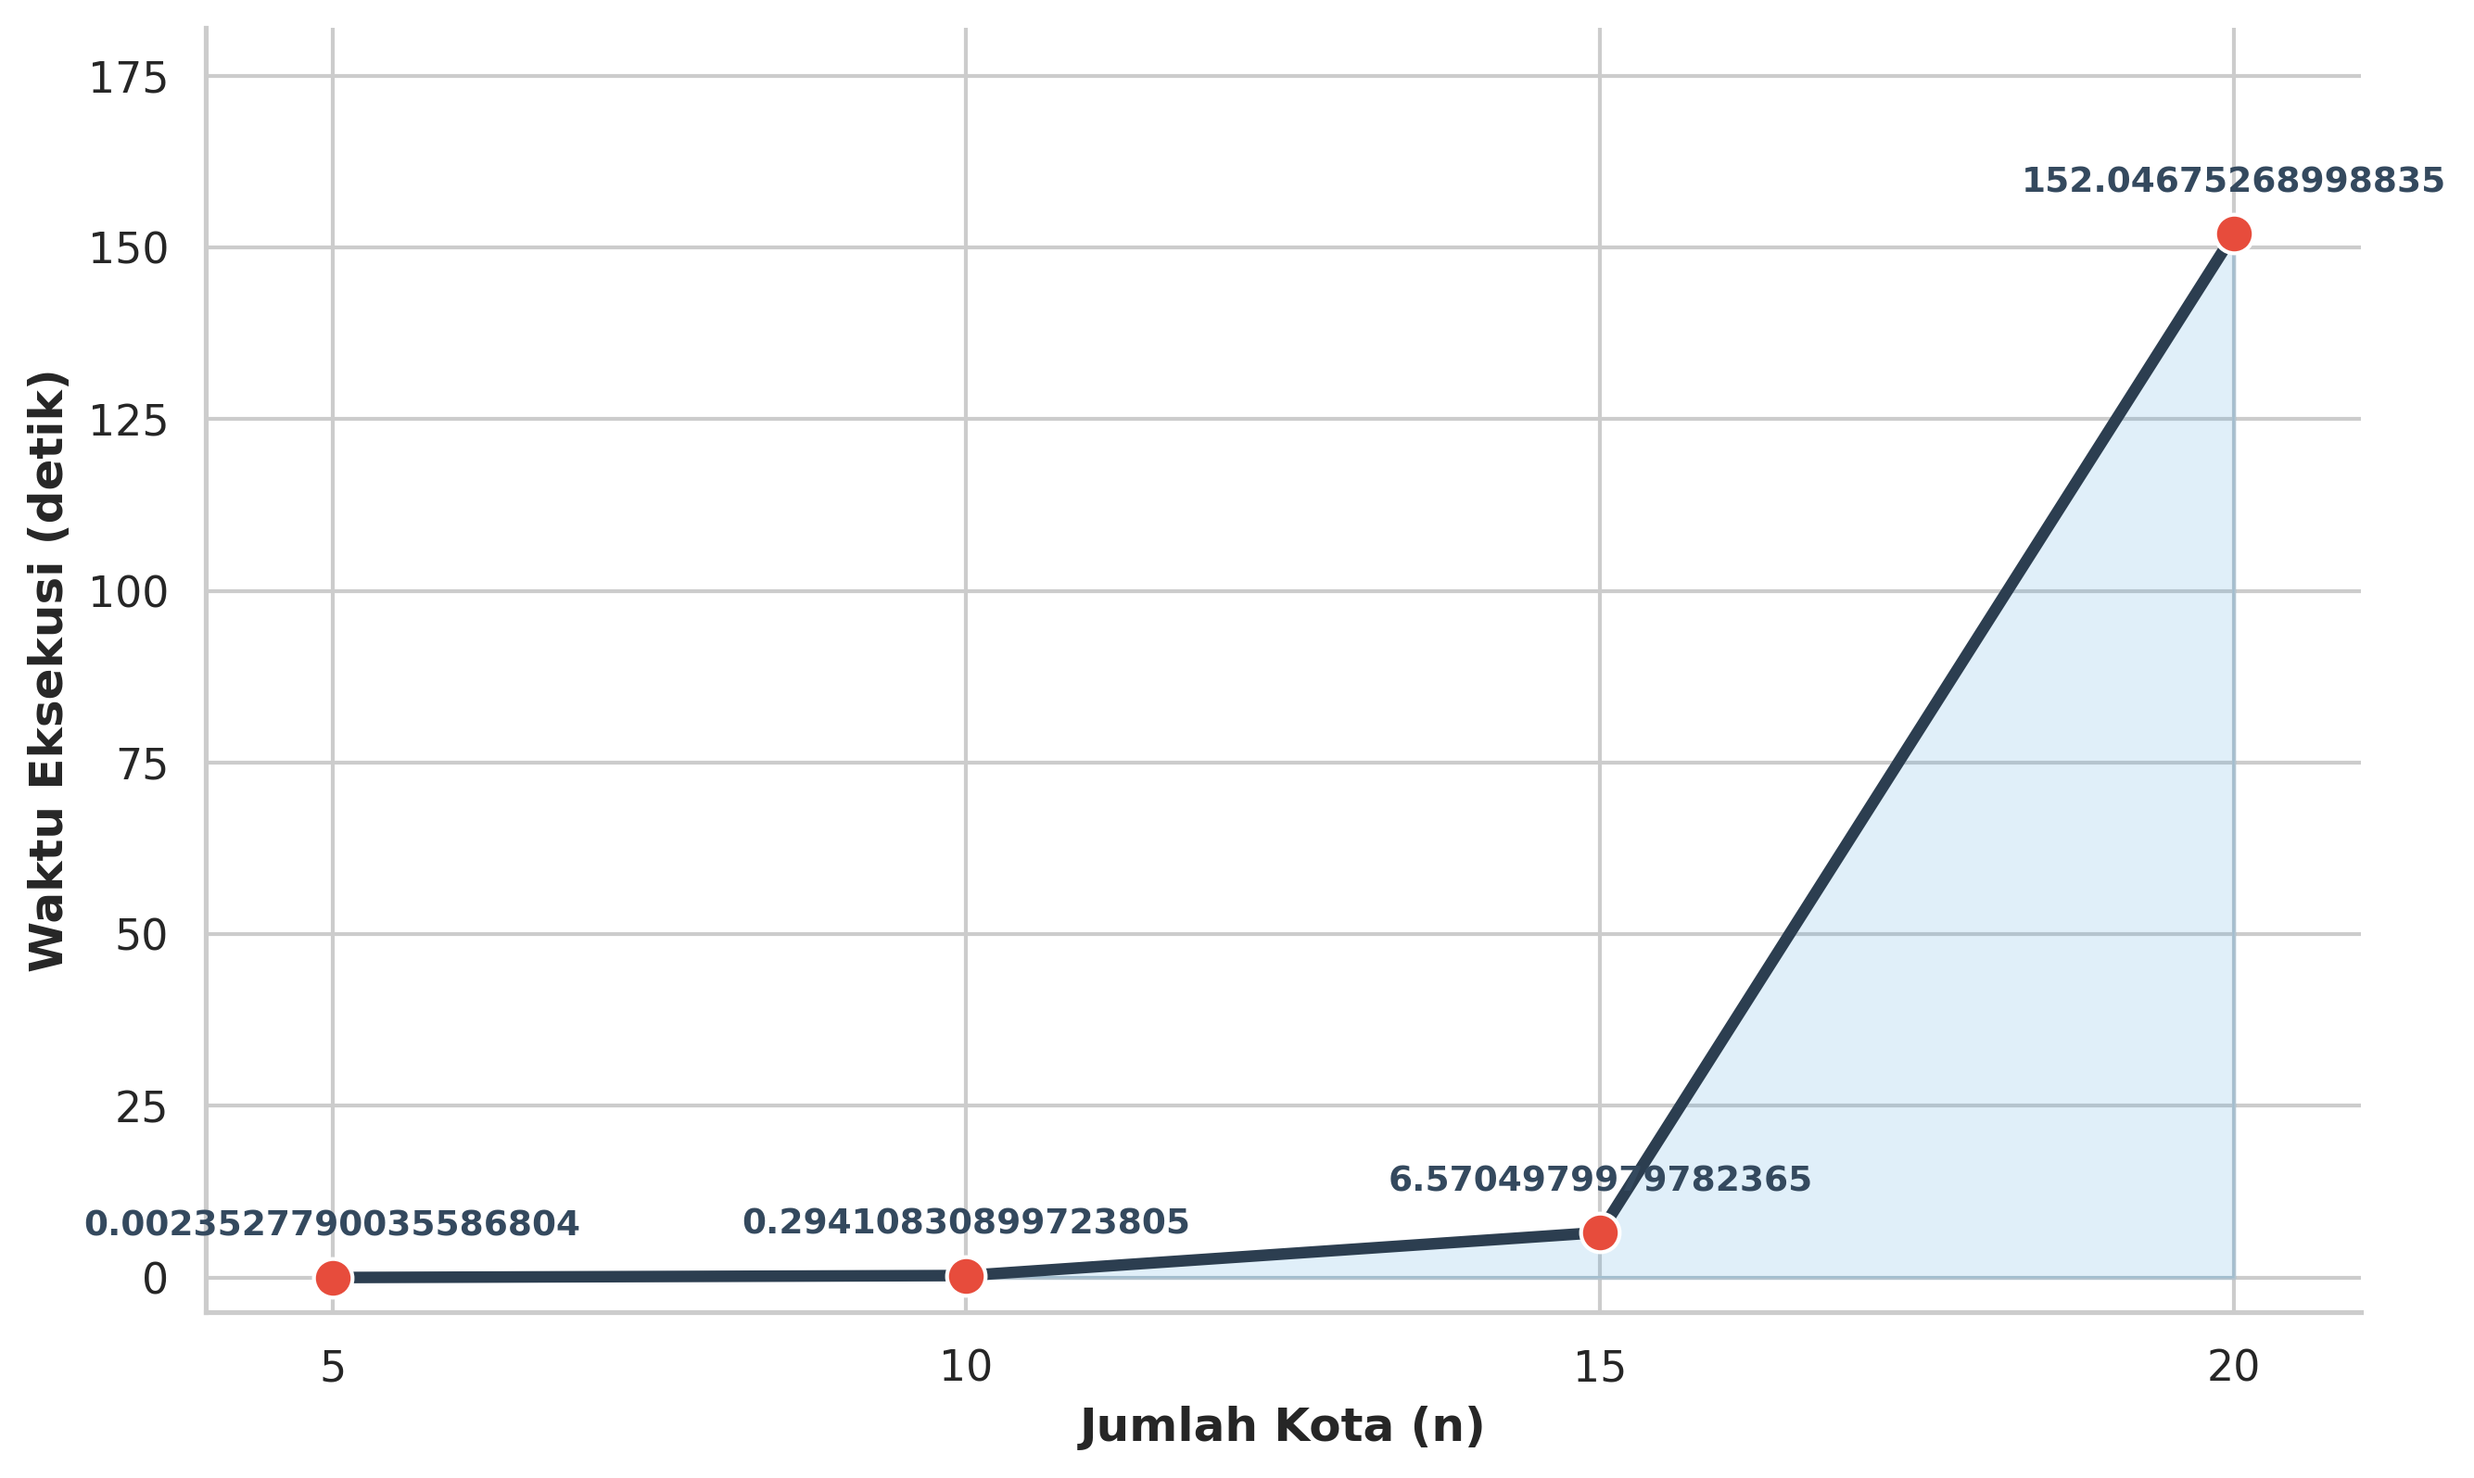
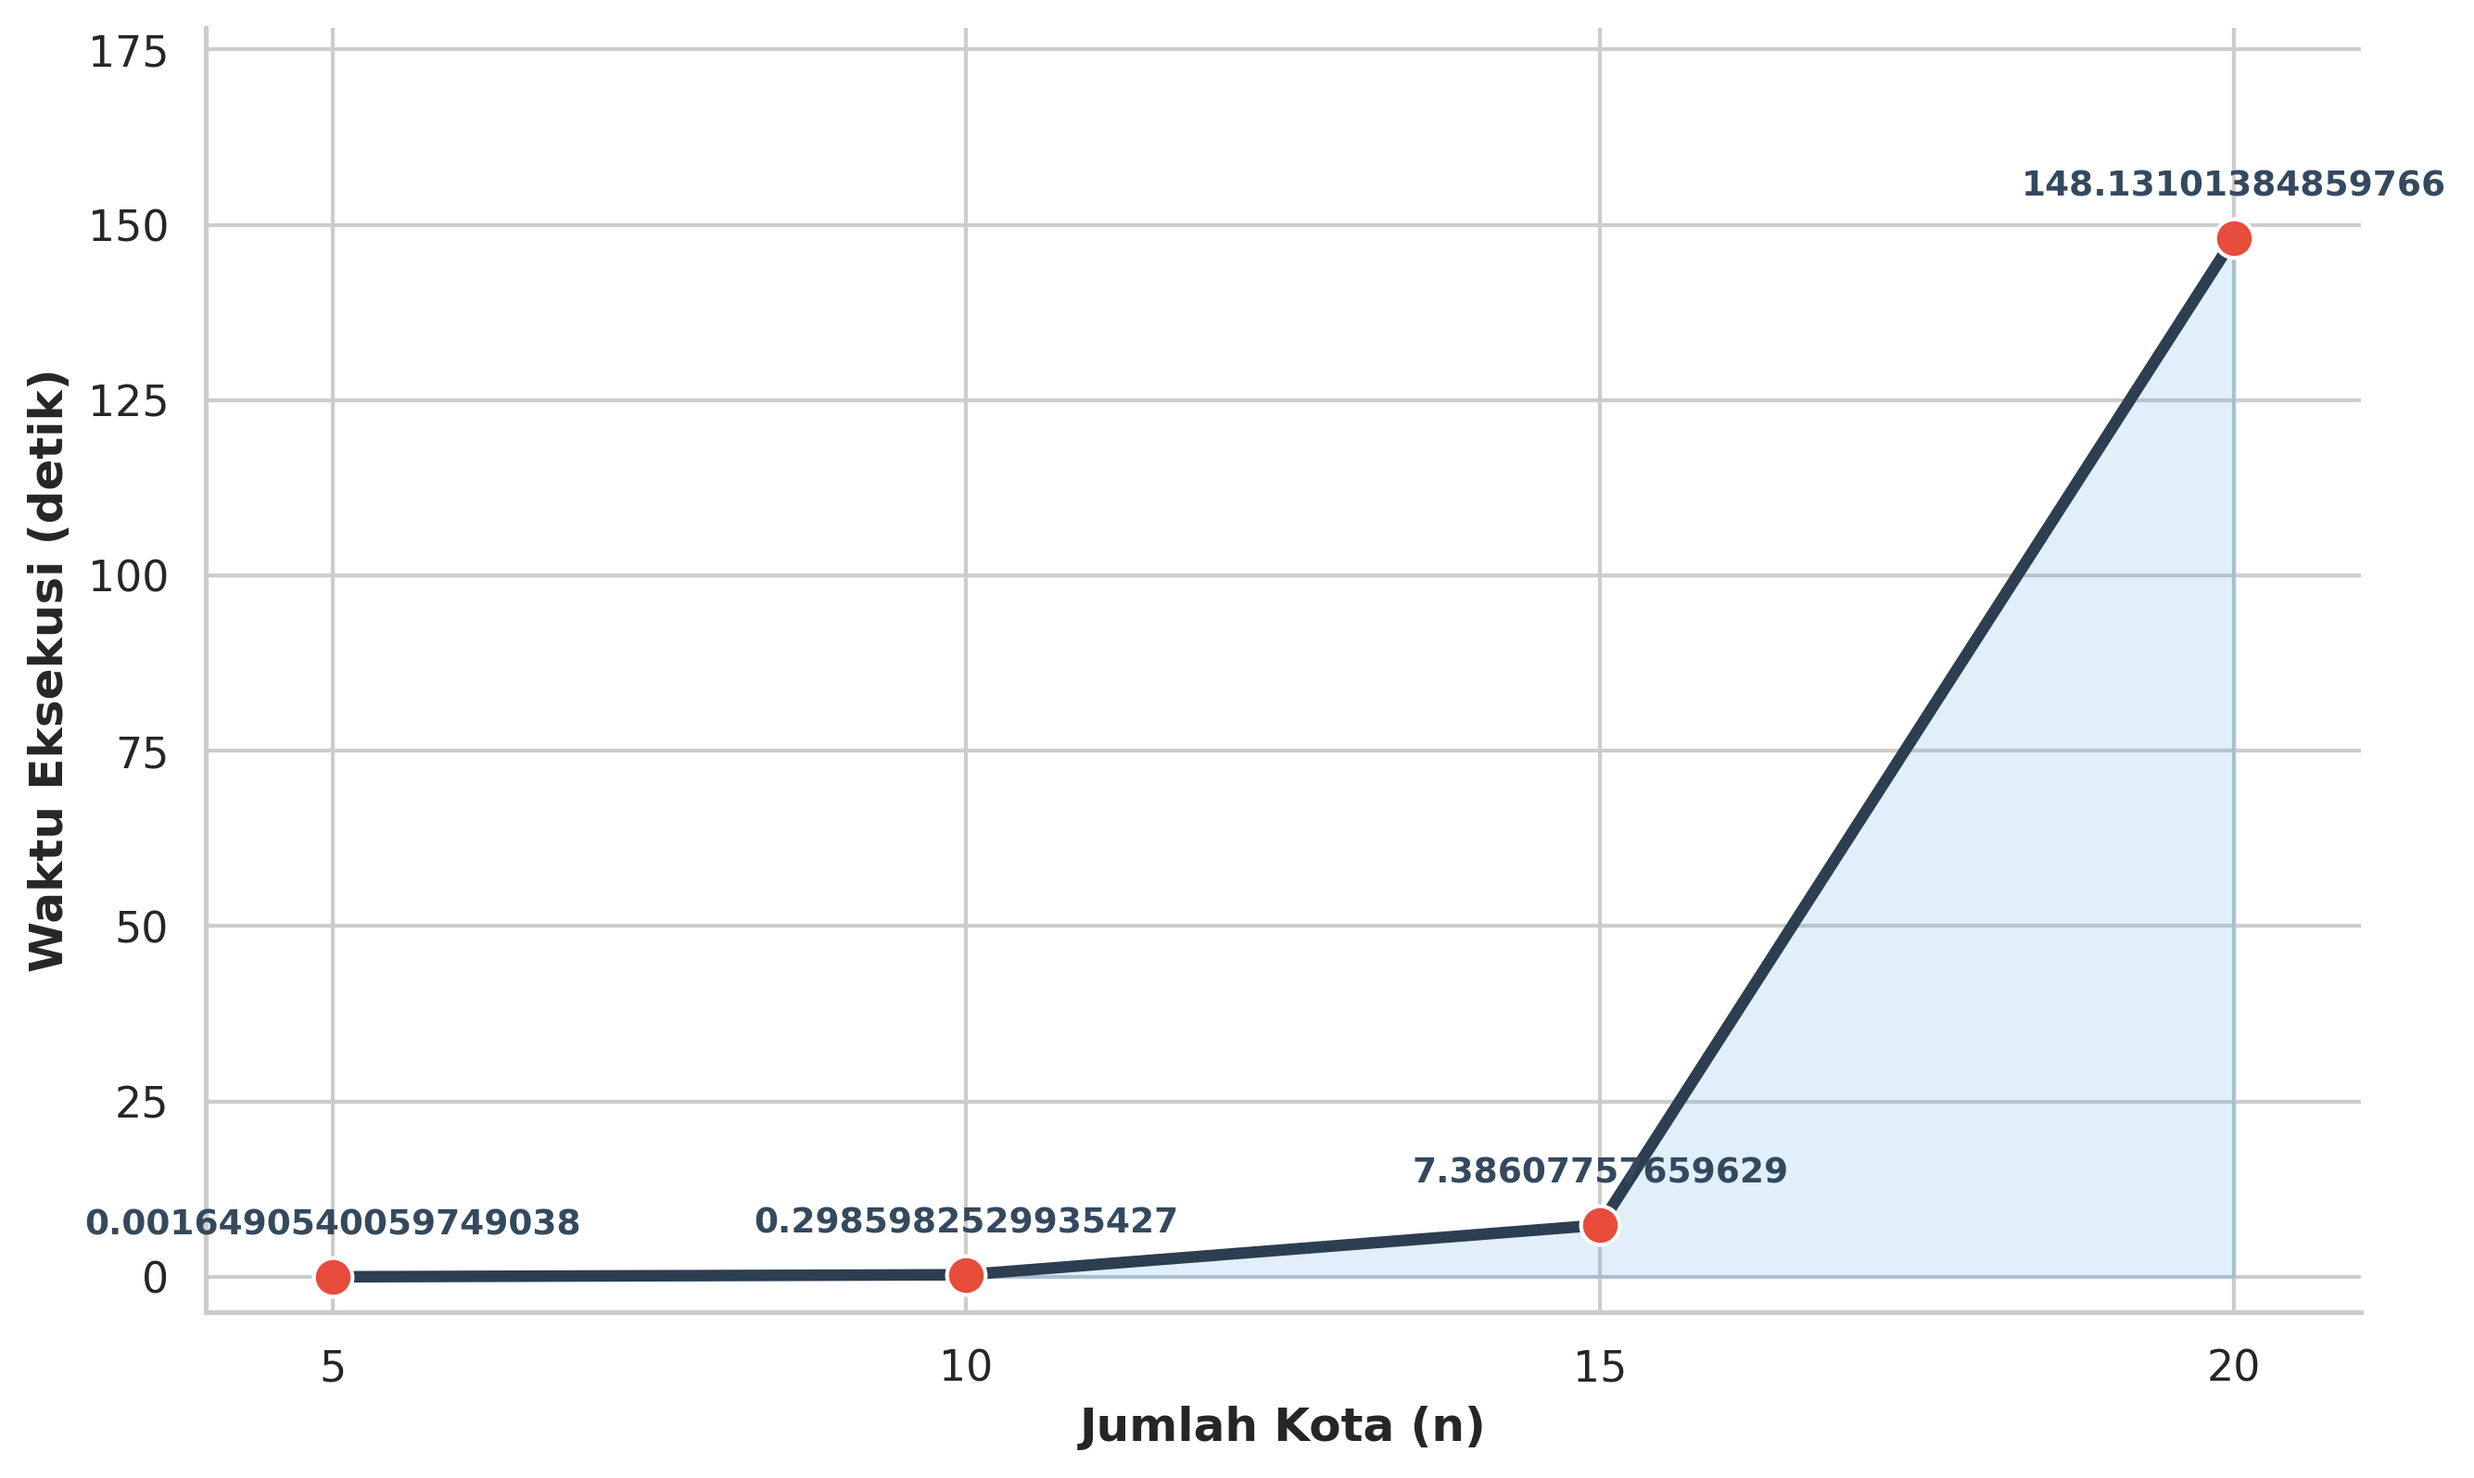
fix: code true for tesis

diff --git a/src/main.py b/src/main.py
@@ -1,7 +1,125 @@
+# import os
+# import sys
+# import time
+#
+# base_dir = os.path.dirname(os.path.abspath(__file__))
+# sys.path.append(os.path.abspath(os.path.join(base_dir, '..')))
+#
+# from visualisasi.visualizer import TSPVisualizer
+# from solver import TSPSolver
+# from visualisasi.performance_analyzer import PerformanceAnalyzer
+#
+#
+# class TSPExperiment:
+#     def __init__(self):
+#         self.solver = TSPSolver()
+#         self.visualizer = TSPVisualizer()
+#
+#     def run(self, variasi_n, seed_value=42):
+#         # --- LOGIKA JALUR FOLDER ---
+#         base_dir = os.path.dirname(os.path.abspath(__file__))
+#         parent_folder = os.path.join(base_dir, "..", "reports")
+#
+#         if not os.path.exists(parent_folder):
+#             os.makedirs(parent_folder)
+#             print(f"Folder '{parent_folder}' telah berhasil dibuat.")
+#
+#         # List untuk menampung data kumulatif hasil eksperimen
+#         all_n = []
+#         all_times = []
+#
+#         print(f"Memulai eksperimen untuk n = {variasi_n}...")
+#
+#         for n_kota in variasi_n:
+#             folder_n = os.path.join(parent_folder, f"{n_kota}_kota")
+#             if not os.path.exists(folder_n):
+#                 os.makedirs(folder_n)
+#
+#             file_log = os.path.join(folder_n, f"report_n{n_kota}.txt")
+#
+#             # --- 1. GENERATE DATA ---
+#             matrix, coords = self.solver.generate_matrix(n_kota, seed_value)
+#
+#             with open(file_log, 'w') as f:
+#                 original_stdout = sys.stdout
+#                 sys.stdout = f
+#
+#                 print(f"=== EKSPERIMEN TSP: {n_kota} KOTA (SEED: {seed_value}) ===")
+#
+#                 # --- KOORDINAT ---
+#                 print("\n1. KOORDINAT KOTA (X, Y):")
+#                 for i, (x, y) in enumerate(coords):
+#                     print(f"   Kota {chr(65 + i)}: ({x:.2f}, {y:.2f})")
+#
+#                 # --- MATRIKS JARAK ---
+#                 print("\n2. MATRIKS JARAK ANTAR KOTA (Euclidean):")
+#                 header = "      " + "".join([f"{chr(65 + i):<10}" for i in range(n_kota)])
+#                 print(header)
+#                 print("-" * len(header))
+#                 for i in range(n_kota):
+#                     row_label = chr(65 + i)
+#                     row_str = f"{row_label:<4} | "
+#                     for j in range(n_kota):
+#                         val = matrix[i][j]
+#                         if val == float('inf'):
+#                             row_str += f"{'inf':<10}"
+#                         else:
+#                             row_str += f"{val:<10.2f}"
+#                     print(row_str)
+#
+#                 # --- 2. SOLVER & VISUALISASI PER KOTA ---
+#                 print("\n3. PROSES PENCARIAN RUTE TERPENDEK...")
+#                 self.visualizer.visualize_graph(n_kota, coords, matrix, folder_n)
+#
+#                 start_time = time.perf_counter()
+#                 path, cost, nodes_count, tree_history = self.solver.solve_tsp(matrix)
+#                 duration = time.perf_counter() - start_time
+#
+#                 # Simpan data untuk grafik performa gabungan
+#                 all_n.append(n_kota)
+#                 all_times.append(duration)
+#
+#                 # Cari ID Best Path Nodes untuk jalur hijau di pohon
+#                 best_path_nodes = [1]
+#                 for step in range(1, len(path)):
+#                     target_label = f"={chr(65 + path[step])}"
+#                     for p_id, c_id, edge_lab, _, _, _ in tree_history:
+#                         if target_label in edge_lab:
+#                             best_path_nodes.append(c_id)
+#
+#                 if n_kota <= 5:
+#                     self.visualizer.visualize_tree(tree_history, folder_n, n_kota, cost, best_path_nodes)
+#
+#                 # --- 3. HASIL AKHIR PER KOTA ---
+#                 readable_path = [chr(65 + city) for city in path]
+#                 print(f"\n4. HASIL AKHIR:")
+#                 print(f"   Rute Terpendek      : {' -> '.join(readable_path)}")
+#                 print(f"   Total Jarak (Cost)  : {cost:.2f}")
+#                 print(f"   Simpul Dieksplorasi : {nodes_count}")
+#                 print(f"   Waktu Eksekusi      : {duration:.6f} detik")
+#
+#                 sys.stdout = original_stdout
+#
+#             print(f" [+] Selesai: {n_kota} kota. Waktu: {duration:.4f} detik.")
+#
+#         # --- 4. TAHAP AKHIR: ANALISIS PERFORMA KESELURUHAN ---
+#         print("\nSedang membuat grafik perbandingan performa...")
+#         analyzer = PerformanceAnalyzer(parent_folder)
+#         analyzer.generate_performance_chart(all_n, all_times)
+#         print("Seluruh eksperimen selesai dengan sukses.")
+#
+#
+# if __name__ == "__main__":
+#     app = TSPExperiment()
+#     # Menjalankan dari 5 sampai 20 kota sesuai permintaan
+#     app.run(variasi_n=[5, 10, 15, 20])
+
 import os
 import sys
 import time
+import numpy as np
 
+# Pengaturan Path agar folder visualisasi terbaca
 base_dir = os.path.dirname(os.path.abspath(__file__))
 sys.path.append(os.path.abspath(os.path.join(base_dir, '..')))
 
@@ -10,48 +128,63 @@ from solver import TSPSolver
 from visualisasi.performance_analyzer import PerformanceAnalyzer
 
 
-class TSPExperiment:
+class TSPResearch:
     def __init__(self):
         self.solver = TSPSolver()
         self.visualizer = TSPVisualizer()
+        # Jumlah pengulangan untuk setiap n untuk mendapatkan rata-rata waktu yang stabil
+        self.iterations_per_n = 5
 
-    def run(self, variasi_n, seed_value=42):
-        # --- LOGIKA JALUR FOLDER ---
-        base_dir = os.path.dirname(os.path.abspath(__file__))
+    def run_experiment(self, variasi_n, seed_value=42):
         parent_folder = os.path.join(base_dir, "..", "reports")
-
         if not os.path.exists(parent_folder):
             os.makedirs(parent_folder)
-            print(f"Folder '{parent_folder}' telah berhasil dibuat.")
 
-        # List untuk menampung data kumulatif hasil eksperimen
         all_n = []
-        all_times = []
+        all_times_avg = []
 
-        print(f"Memulai eksperimen untuk n = {variasi_n}...")
+        print(f"🔬 MEMULAI EKSPERIMEN PENELITIAN (Seed: {seed_value})")
+        print(f"Setiap pengujian 'n' akan diulang {self.iterations_per_n}x untuk akurasi data.")
 
         for n_kota in variasi_n:
             folder_n = os.path.join(parent_folder, f"{n_kota}_kota")
             if not os.path.exists(folder_n):
                 os.makedirs(folder_n)
 
-            file_log = os.path.join(folder_n, f"report_n{n_kota}.txt")
+            file_log = os.path.join(folder_n, f"research_report_n{n_kota}.txt")
 
-            # --- 1. GENERATE DATA ---
+            # --- TAHAP 1: Persiapan Data ---
             matrix, coords = self.solver.generate_matrix(n_kota, seed_value)
+            iter_times = []
 
+            # --- TAHAP 2: Pengukuran Waktu Berulang (Metode Rata-rata) ---
+            # Kita hanya menyimpan detail (pohon/graf) pada iterasi pertama saja
+            # Namun waktu dihitung dari beberapa kali jalan untuk stabilitas data
+            for i in range(self.iterations_per_n):
+                start_time = time.perf_counter()
+                path, cost, nodes_count, tree_history = self.solver.solve_tsp(matrix)
+                end_time = time.perf_counter()
+                iter_times.append(end_time - start_time)
+
+            avg_duration = sum(iter_times) / self.iterations_per_n
+            all_n.append(n_kota)
+            all_times_avg.append(avg_duration)
+
+            # --- TAHAP 3: Logging Hasil ---
             with open(file_log, 'w') as f:
                 original_stdout = sys.stdout
                 sys.stdout = f
 
-                print(f"=== EKSPERIMEN TSP: {n_kota} KOTA (SEED: {seed_value}) ===")
+                print(f"=== LAPORAN PENELITIAN TSP: {n_kota} KOTA ===")
+                print(f"Metode: Branch and Bound (Matrix Reduction)")
+                print(f"Seed  : {seed_value}")
 
-                # --- KOORDINAT ---
+                # --- 1. DATA INPUT: KOORDINAT ---
                 print("\n1. KOORDINAT KOTA (X, Y):")
                 for i, (x, y) in enumerate(coords):
                     print(f"   Kota {chr(65 + i)}: ({x:.2f}, {y:.2f})")
 
-                # --- MATRIKS JARAK ---
+                # --- 2. DATA INPUT: MATRIKS JARAK ---
                 print("\n2. MATRIKS JARAK ANTAR KOTA (Euclidean):")
                 header = "      " + "".join([f"{chr(65 + i):<10}" for i in range(n_kota)])
                 print(header)
@@ -67,49 +200,39 @@ class TSPExperiment:
                             row_str += f"{val:<10.2f}"
                     print(row_str)
 
-                # --- 2. SOLVER & VISUALISASI PER KOTA ---
-                print("\n3. PROSES PENCARIAN RUTE TERPENDEK...")
+                # --- 3. STATISTIK PERFORMA ---
+                print(f"\n3. STATISTIK WAKTU KOMPUTASI ({self.iterations_per_n} iterasi):")
+                print(f"   - Waktu Tercepat (Min) : {min(iter_times):.6f} s")
+                print(f"   - Waktu Terlama (Max)  : {max(iter_times):.6f} s")
+                print(f"   - Rata-rata (Average)  : {avg_duration:.6f} s")
+
+                # --- 4. HASIL OPTIMASI AKHIR ---
+                print(f"\n4. HASIL OPTIMASI RUTE:")
+                print(f"   - Total Jarak (Cost)   : {cost:.2f}")
+                print(f"   - Rute Terpendek       : {' -> '.join([chr(65 + c) for c in path])}")
+                print(f"   - Simpul Dieksplorasi  : {nodes_count}")
+
+                # Visualisasi (Tetap hanya sekali)
                 self.visualizer.visualize_graph(n_kota, coords, matrix, folder_n)
-
-                start_time = time.perf_counter()
-                path, cost, nodes_count, tree_history = self.solver.solve_tsp(matrix)
-                duration = time.perf_counter() - start_time
-
-                # Simpan data untuk grafik performa gabungan
-                all_n.append(n_kota)
-                all_times.append(duration)
-
-                # Cari ID Best Path Nodes untuk jalur hijau di pohon
-                best_path_nodes = [1]
-                for step in range(1, len(path)):
-                    target_label = f"={chr(65 + path[step])}"
-                    for p_id, c_id, edge_lab, _, _, _ in tree_history:
-                        if target_label in edge_lab:
-                            best_path_nodes.append(c_id)
-
                 if n_kota <= 5:
+                    best_path_nodes = [1]
+                    for step in range(1, len(path)):
+                        target_label = f"={chr(65 + path[step])}"
+                        for p_id, c_id, edge_lab, _, _, _ in tree_history:
+                            if target_label in edge_lab:
+                                best_path_nodes.append(c_id)
                     self.visualizer.visualize_tree(tree_history, folder_n, n_kota, cost, best_path_nodes)
-
-                # --- 3. HASIL AKHIR PER KOTA ---
-                readable_path = [chr(65 + city) for city in path]
-                print(f"\n4. HASIL AKHIR:")
-                print(f"   Rute Terpendek      : {' -> '.join(readable_path)}")
-                print(f"   Total Jarak (Cost)  : {cost:.2f}")
-                print(f"   Simpul Dieksplorasi : {nodes_count}")
-                print(f"   Waktu Eksekusi      : {duration:.6f} detik")
 
                 sys.stdout = original_stdout
 
-            print(f" [+] Selesai: {n_kota} kota. Waktu: {duration:.4f} detik.")
+            print(f" ✅ [n={n_kota}] Rerata Waktu: {avg_duration:.6f} s")
 
-        # --- 4. TAHAP AKHIR: ANALISIS PERFORMA KESELURUHAN ---
-        print("\nSedang membuat grafik perbandingan performa...")
+        # --- TAHAP 4: Analisis Akhir ---
         analyzer = PerformanceAnalyzer(parent_folder)
-        analyzer.generate_performance_chart(all_n, all_times)
-        print("Seluruh eksperimen selesai dengan sukses.")
+        analyzer.generate_performance_chart(all_n, all_times_avg)
+        print("\n📊 Seluruh data penelitian telah dikompilasi ke folder /reports.")
 
 
 if __name__ == "__main__":
-    app = TSPExperiment()
-    # Menjalankan dari 5 sampai 20 kota sesuai permintaan
-    app.run(variasi_n=[5, 10, 15, 20])
+    research = TSPResearch()
+    research.run_experiment(variasi_n=[5, 10, 15, 20])
